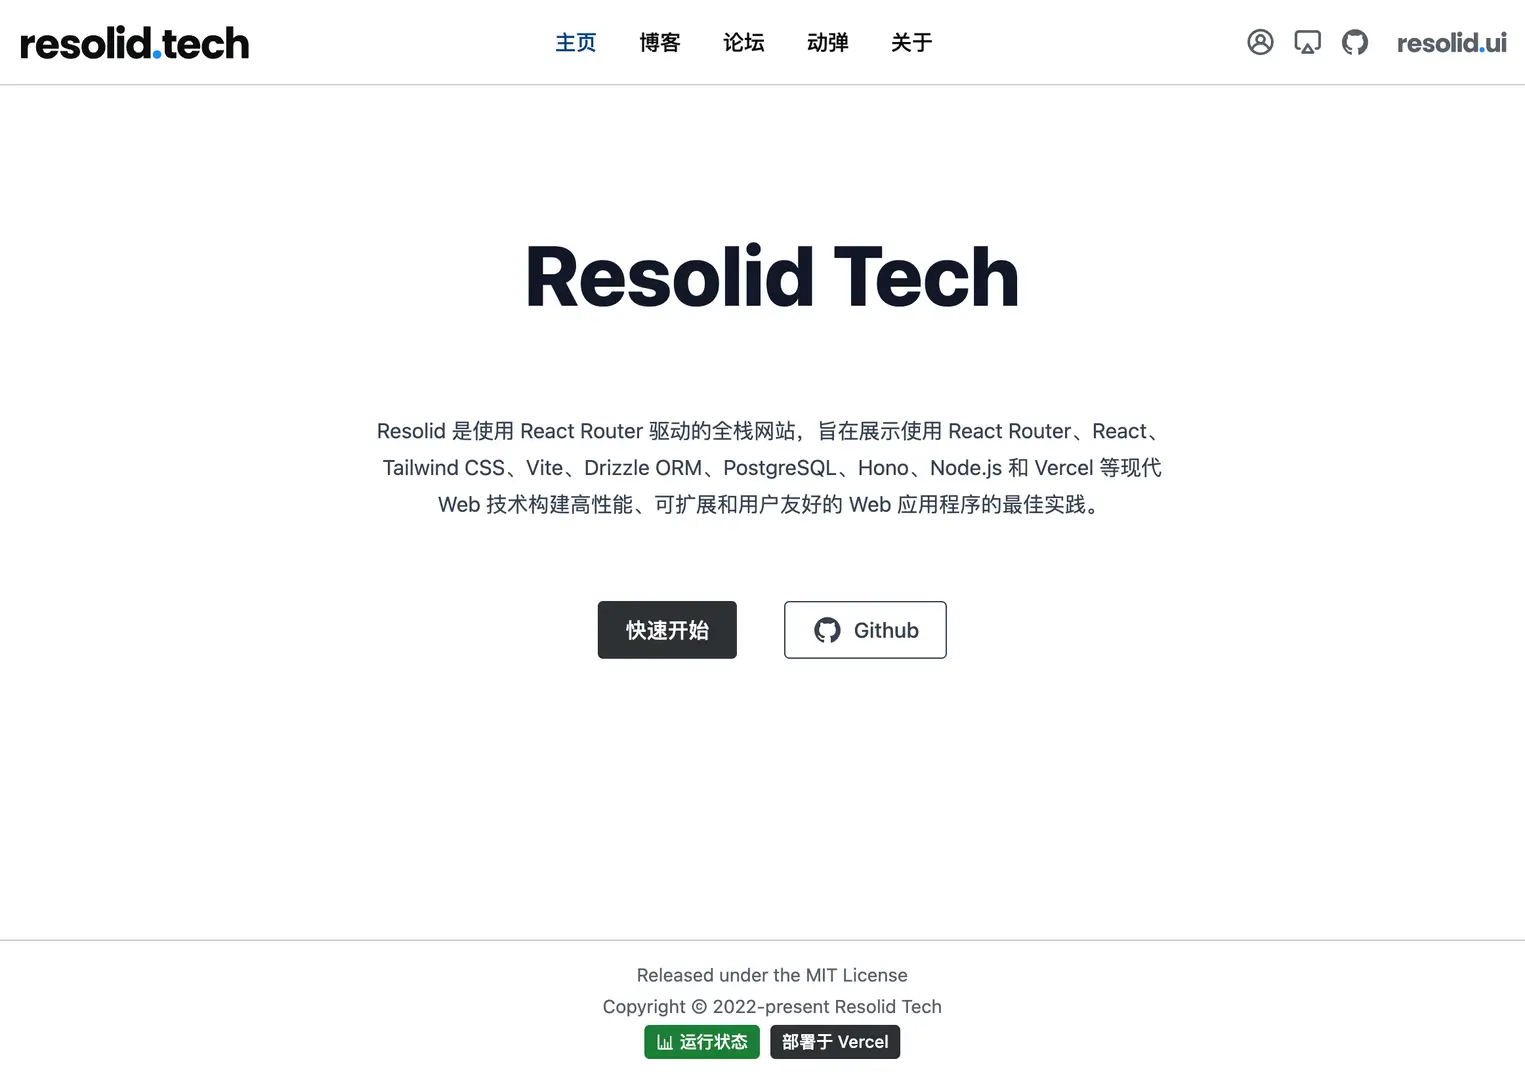
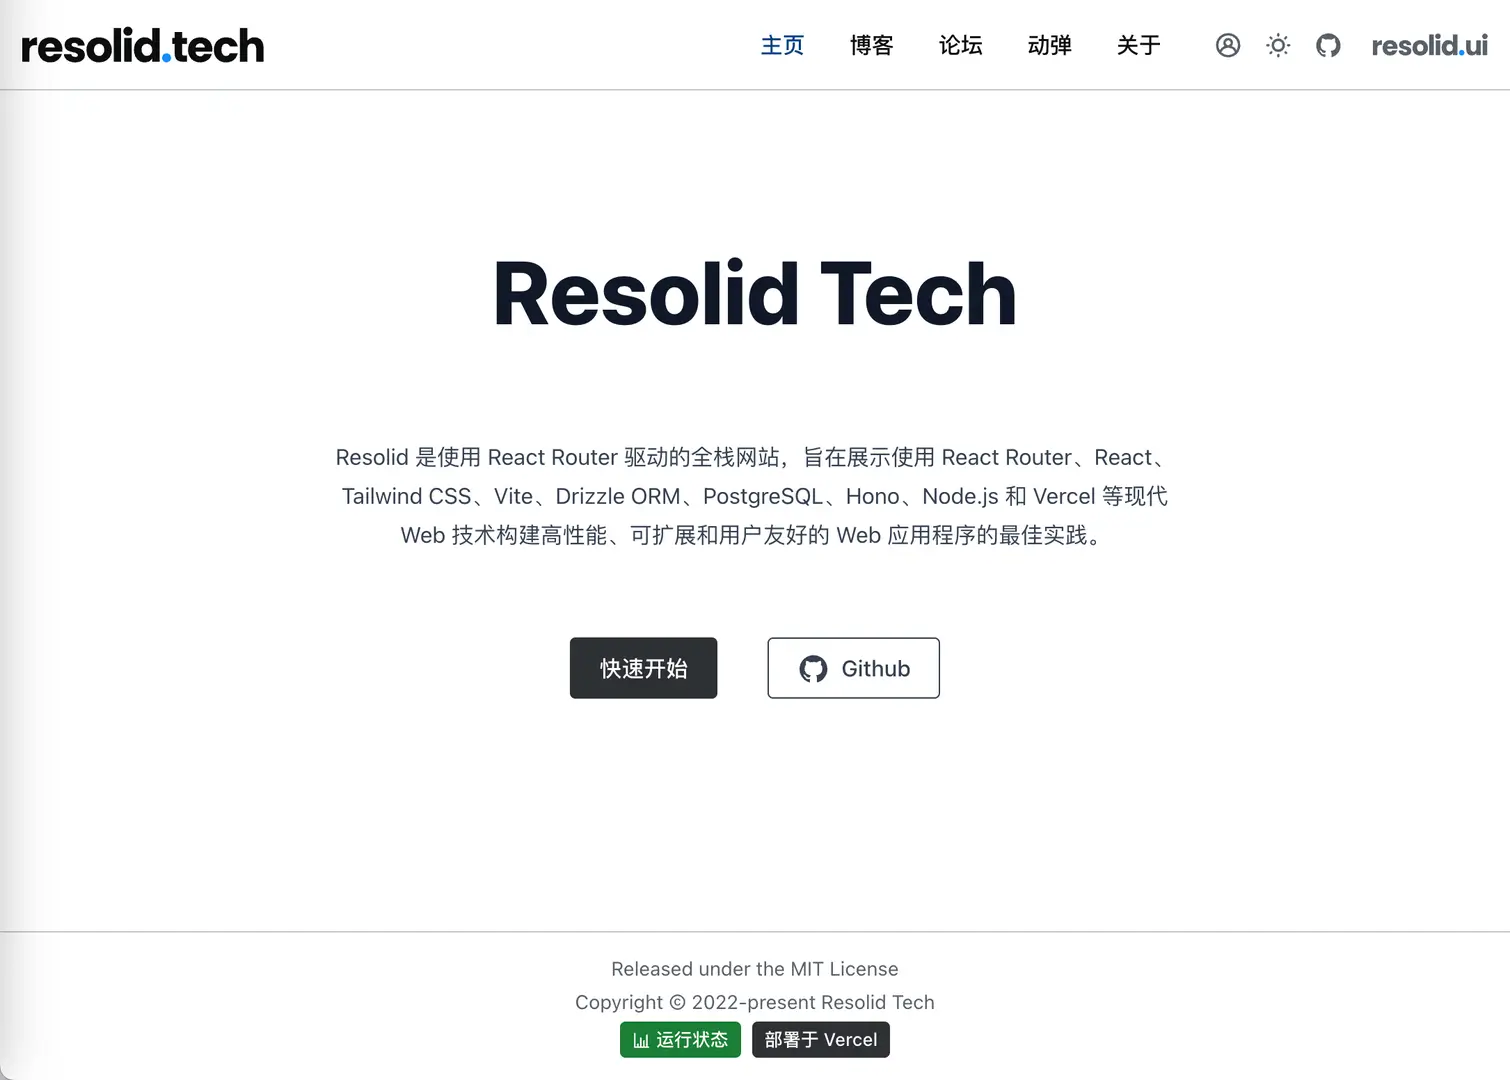
fix: update SpriteIcon size handling and improve NavBar layout

diff --git a/website/src/routes/_site/_layout.tsx b/website/src/routes/_site/_layout.tsx
@@ -139,7 +139,7 @@ export default function SiteLayout() {
           <p>Copyright Ⓒ 2022-present Resolid Tech</p>
           <p className={"inline-flex items-center justify-center gap-2"}>
             <Badge color={"success"} render={(props) => <HistoryLink {...props} to={"status"} />}>
-              <SpriteIcon className={"me-1"} size={"xs"} name={"status"} />
+              <SpriteIcon className={"me-1"} name={"status"} />
               运行状态
             </Badge>
             <Badge className={"pointer-events-none"} color={"neutral"}>
@@ -156,13 +156,13 @@ const NavBar = () => {
   const [opened, setOpened] = useState(false);
 
   return (
-    <nav className={"xl:max-w-288 mx-auto flex h-16 items-center justify-between gap-3 px-4"}>
+    <nav className={"xl:max-w-288 mx-auto flex h-16 items-center justify-between gap-4 px-4"}>
       <Link to={"/"} aria-label={"Resolid"}>
         <ResolidLogo />
       </Link>
       <div
         className={tx(
-          "bg-bg-normal absolute inset-x-0 top-[calc(var(--spacing)*16+1px)] z-20 h-screen p-0",
+          "bg-bg-normal absolute inset-x-0 top-[calc(var(--spacing)*16+1px)] z-20 h-screen grow p-0",
           "md:relative md:top-0 md:block md:h-auto md:bg-inherit",
           opened ? "block" : "hidden",
         )}
@@ -184,12 +184,12 @@ const NavBar = () => {
                 iconOnly
                 render={(props) => (
                   <a {...props} href={"https://github.com/huijiewei/resolid"} target={"_blank"} rel={"noreferrer"}>
-                    <SpriteIcon name={"github"} />
+                    <SpriteIcon size={"1.5em"} name={"github"} />
                   </a>
                 )}
               />
             )}
-          ></TooltipTrigger>
+          />
           <TooltipContent>
             <TooltipArrow />
             Github 上的 Resolid
@@ -204,32 +204,28 @@ const NavBar = () => {
           className={"md:hidden"}
           onClick={() => setOpened((prev) => !prev)}
         >
-          {opened ? <SpriteIcon name={"close"} /> : <SpriteIcon name={"menu"} />}
+          {opened ? <SpriteIcon size={"1.5em"} name={"close"} /> : <SpriteIcon size={"1.5em"} name={"menu"} />}
         </Button>
-        <div className={"hidden md:block"}>
-          <Tooltip placement={"bottom"}>
-            <TooltipTrigger
-              render={(props) => (
-                <Button
-                  {...props}
-                  aria-label="Resolid UI"
-                  color={"neutral"}
-                  variant={"ghost"}
-                  size={"sm"}
-                  render={(props) => (
-                    <a {...props} href={"https://ui.resolid.tech"} target={"_blank"} rel={"noreferrer"}>
-                      <ResolidUiLogo height={16} />
-                    </a>
-                  )}
-                />
-              )}
-            />
-            <TooltipContent>
-              <TooltipArrow />
-              访问 Resolid UI
-            </TooltipContent>
-          </Tooltip>
-        </div>
+        <Tooltip placement={"bottom"}>
+          <TooltipTrigger
+            render={(props) => (
+              <a
+                {...props}
+                className={"hover:text-fg-primary ms-3 hidden md:block"}
+                aria-label="Resolid UI"
+                href={"https://ui.resolid.tech"}
+                target={"_blank"}
+                rel={"noreferrer"}
+              >
+                <ResolidUiLogo height={16} />
+              </a>
+            )}
+          />
+          <TooltipContent>
+            <TooltipArrow />
+            访问 Resolid UI
+          </TooltipContent>
+        </Tooltip>
       </div>
     </nav>
   );
@@ -239,7 +235,7 @@ const NavMenu = ({ onClick }: { onClick?: MouseEventHandler<HTMLAnchorElement> }
   return (
     <ul
       className={tx(
-        "mx-auto flex max-w-80 list-none flex-col p-4 text-center font-medium tracking-widest",
+        "mx-auto flex max-w-80 list-none flex-col justify-end p-4 text-center font-medium tracking-widest",
         "md:max-w-none md:flex-row md:p-0 md:tracking-normal",
       )}
     >
@@ -327,7 +323,7 @@ const NavUser = () => {
         )}
         aria-label={"用户登录"}
       >
-        <SpriteIcon name={"user"} />
+        <SpriteIcon size={"1.5em"} name={"user"} />
       </TooltipTrigger>
       <TooltipContent>
         <TooltipArrow />

diff --git a/website/src/components/base/sprite-icon.tsx b/website/src/components/base/sprite-icon.tsx
@@ -1,33 +1,18 @@
 import { tx } from "@resolid/react-ui";
-import { isString } from "@resolid/utils";
-
 import spriteIcons from "~/assets/icons/sprite.svg";
-
-const iconSizes = {
-  xs: "0.875rem",
-  sm: "1.125rem",
-  md: "1.5rem",
-  lg: "1.75rem",
-  xl: "2rem",
-};
-
-type IconSizes = keyof typeof iconSizes;
 
 type SpriteIconProps = {
   name: string;
-  size?: IconSizes | string | number;
+  size?: string | number;
   color?: string;
   className?: string;
 };
 
 export const SpriteIcon = (props: SpriteIconProps) => {
-  const { name, size = "md", color, className } = props;
-
-  const sizeValue =
-    isString(size) && ["xs", "sm", "md", "lg", "xl"].includes(size) ? iconSizes[size as IconSizes] : size;
+  const { name, size = "1em", color, className } = props;
 
   return (
-    <svg width={sizeValue} height={sizeValue} className={tx("aspect-square", className)}>
+    <svg style={{ width: size }} className={tx("mb-[-.1em] aspect-square", className)}>
       <use color={color} href={`${spriteIcons}#${name}`} />
     </svg>
   );

diff --git a/website/src/components/base/color-mode-toggle.tsx b/website/src/components/base/color-mode-toggle.tsx
@@ -35,7 +35,7 @@ export const ColorModeToggle = () => {
         aria-label={"颜色模式"}
         render={(props) => <Button {...props} color={"neutral"} variant={"ghost"} size={"sm"} iconOnly />}
       >
-        <SpriteIcon name={colorModes[colorMode]?.icon} />
+        <SpriteIcon size={"1.5em"} name={colorModes[colorMode]?.icon} />
       </DropdownMenuTrigger>
       <DropdownMenuContent className={"text-sm"}>
         {Object.keys(colorModes).map((key) => {
@@ -49,7 +49,7 @@ export const ColorModeToggle = () => {
                 setColorMode(key as ColorMode);
               }}
             >
-              <SpriteIcon size={"xs"} name={mode.icon} className={"me-1.5"} />
+              <SpriteIcon name={mode.icon} className={"me-1.5"} />
               {mode.label}
             </DropdownMenuItem>
           );

diff --git a/website/src/routes/_site/_home/_index.tsx b/website/src/routes/_site/_home/_index.tsx
@@ -20,7 +20,7 @@ export default function SiteIndex() {
           size={"xl"}
           render={(props) => (
             <a {...props} href={"https://github.com/huijiewei/resolid"} target={"_blank"} rel={"noreferrer"}>
-              <SpriteIcon className={"me-2"} name={"github"} />
+              <SpriteIcon size={"1.5em"} className={"me-2"} name={"github"} />
               Github
             </a>
           )}
